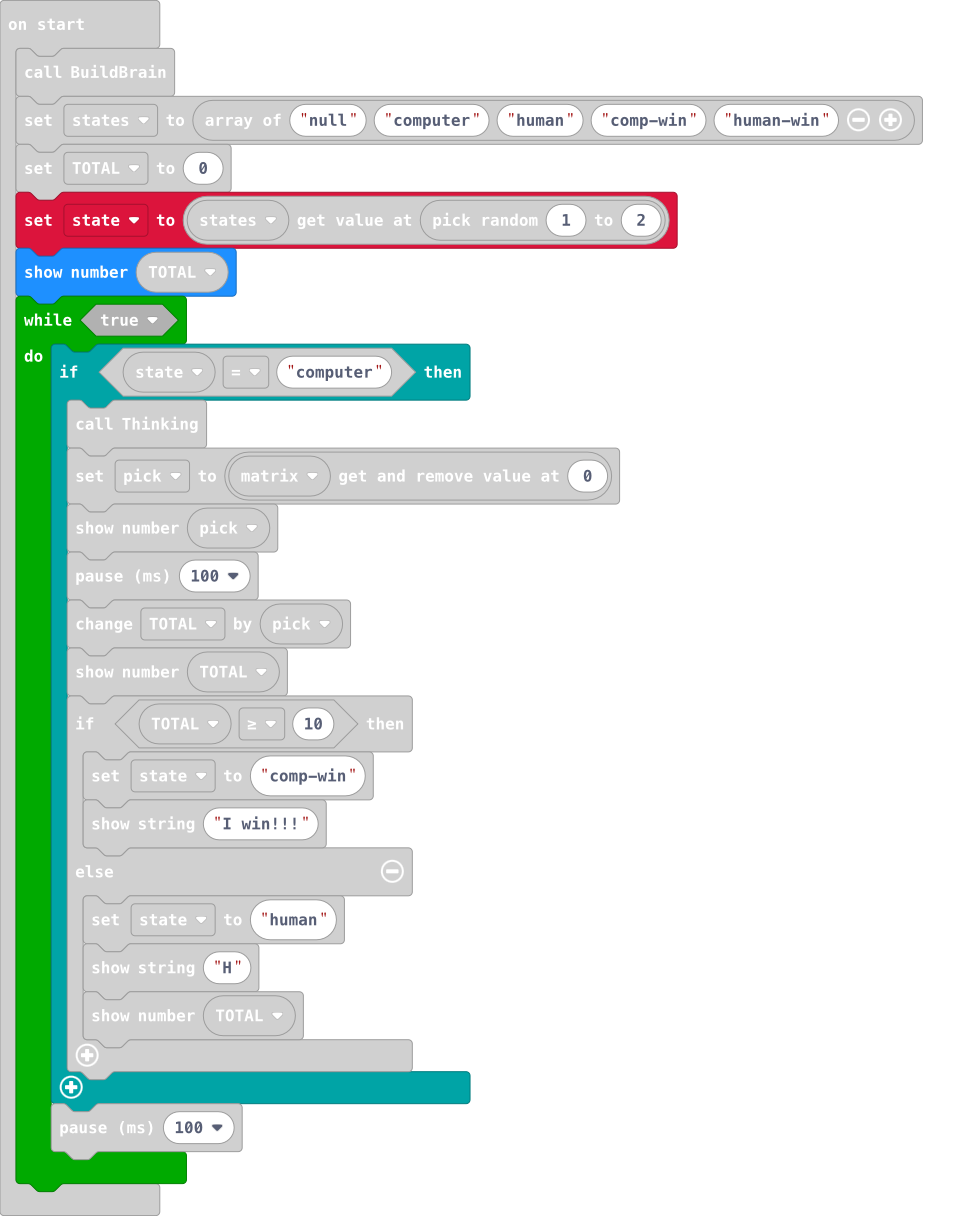
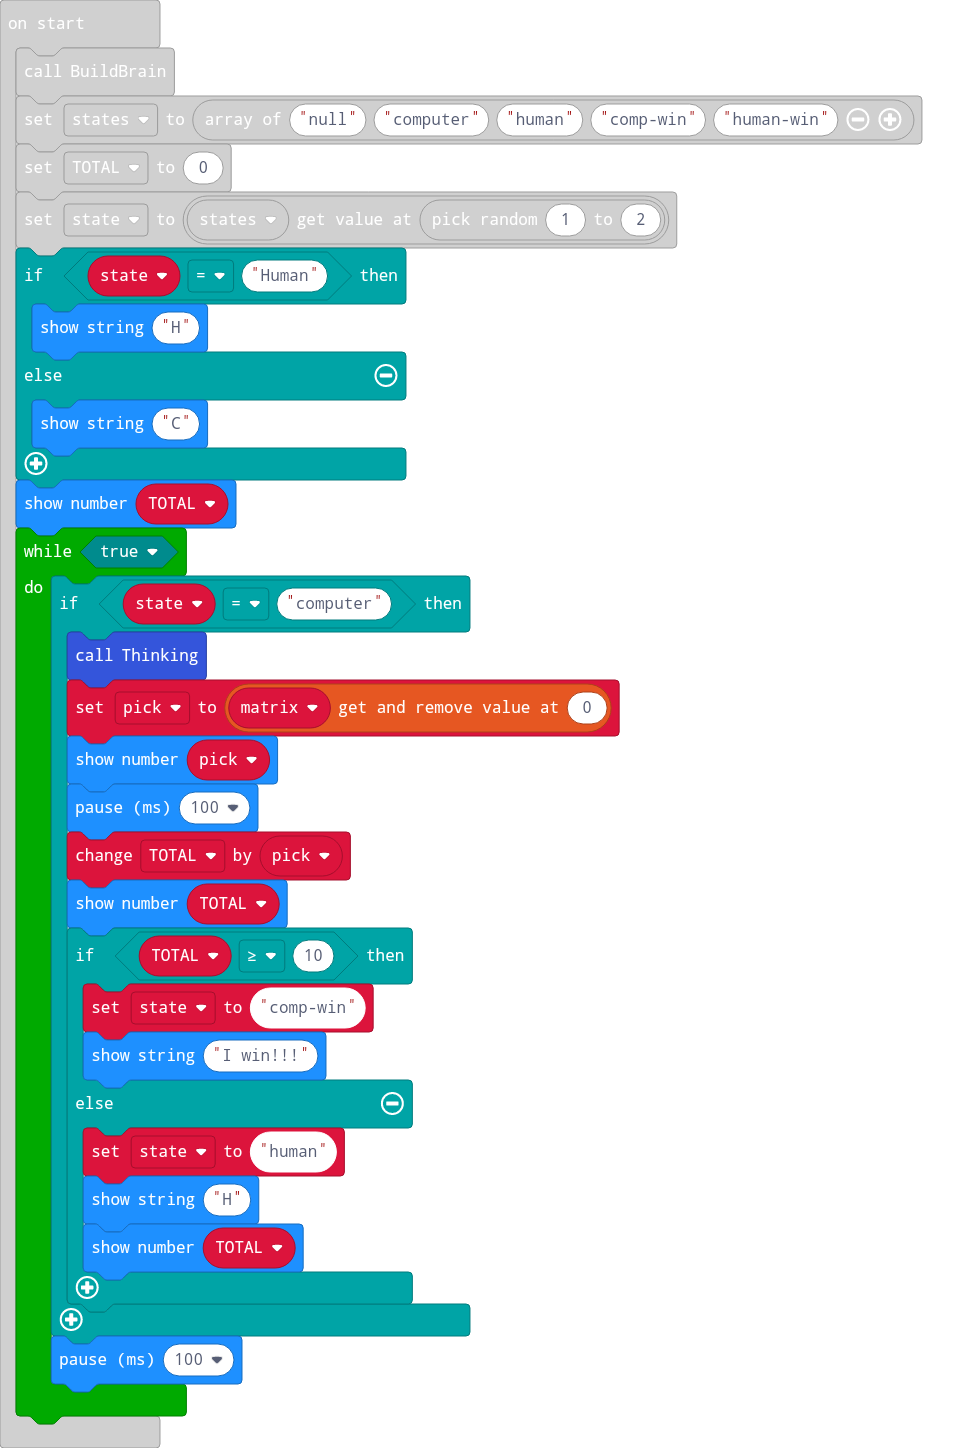
Update main.blocks, main.ts

diff --git a/main.ts b/main.ts
@@ -66,6 +66,11 @@ BuildBrain()
 let states = ["null", "computer", "human", "comp-win", "human-win"]
 TOTAL = 0
 state = states[randint(1, 2)]
+if (state == "Human") {
+    basic.showString("H")
+} else {
+    basic.showString("C")
+}
 basic.showNumber(TOTAL)
 while (true) {
     if (state == "computer") {
